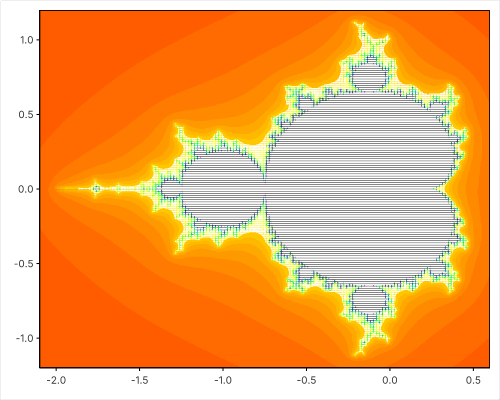
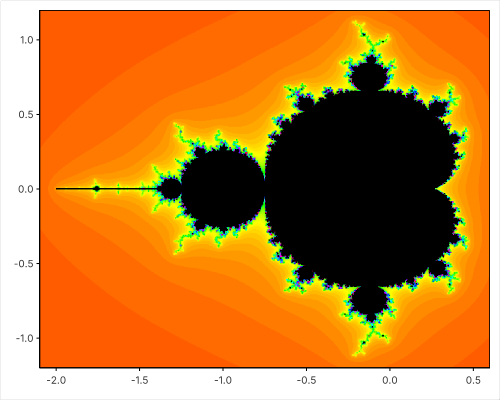
wgpu u16 -> u32

Changed region(s): [[0.12, 0.06, 0.96, 0.9]]

diff --git a/src/render/backend/wgpu.rs b/src/render/backend/wgpu.rs
@@ -241,7 +241,10 @@ pub struct WgpuBackend {
     polygon_vertex_buffer: wgpu::Buffer,
     polygon_index_buffer: wgpu::Buffer,
     pending_polygon_vertices: Vec<PathVertex>,
-    pending_polygon_indices: Vec<u16>,
+    /// 32-bit indices: dense polygon layers (for example a per-pixel fractal)
+    /// can exceed the 65,535 vertices a `u16` index can address. Wrapping there
+    /// silently corrupts the geometry and leaves seams or wrong-coloured runs.
+    pending_polygon_indices: Vec<u32>,
     uploaded_polygon_index_count: u32,
 
     // Gradient rectangle resources
@@ -618,7 +621,7 @@ impl WgpuBackend {
         let line_buffer = Self::create_dummy_buffer::<GpuLine>(&device);
         let gradient_rect_buffer = Self::create_dummy_buffer::<GpuGradientRect>(&device);
         let dummy_polygon_vertices = Self::create_dummy_buffer::<PathVertex>(&device);
-        let dummy_polygon_indices = Self::create_dummy_buffer::<u16>(&device);
+        let dummy_polygon_indices = Self::create_dummy_buffer::<u32>(&device);
 
         // STENCIL MASK BUFFER FOR HETEROGENEOUS VECTOR FILLS
         let physical_width = (screen_width as f32 * scale_factor).round() as u32;
@@ -1232,7 +1235,7 @@ impl WgpuBackend {
         let mut max_y = f32::MIN;
 
         for points in &rings {
-            let base_vertex = self.pending_polygon_vertices.len() as u16;
+            let base_vertex = self.pending_polygon_vertices.len() as u32;
 
             for &(x, y) in *points {
                 min_x = min_x.min(x);
@@ -1249,8 +1252,8 @@ impl WgpuBackend {
             for i in 1..points.len() - 1 {
                 self.pending_polygon_indices.extend([
                     base_vertex,
-                    base_vertex + i as u16,
-                    base_vertex + (i + 1) as u16,
+                    base_vertex + i as u32,
+                    base_vertex + (i + 1) as u32,
                 ]);
                 stencil_index_count += 3;
             }
@@ -1264,7 +1267,7 @@ impl WgpuBackend {
         // ====================================================================
         let fill = config.fill.rgba();
         let fill_color = [fill[0], fill[1], fill[2], fill[3] * config.opacity];
-        let cover_base = self.pending_polygon_vertices.len() as u16;
+        let cover_base = self.pending_polygon_vertices.len() as u32;
 
         let bb_points = [
             (min_x, min_y),
@@ -1305,7 +1308,7 @@ impl WgpuBackend {
 
         let fill = config.fill.rgba();
         let color = [fill[0], fill[1], fill[2], fill[3] * config.opacity];
-        let base_vertex = self.pending_polygon_vertices.len() as u16;
+        let base_vertex = self.pending_polygon_vertices.len() as u32;
         let point_count = points.len();
 
         for &(x, y) in points {
@@ -1320,8 +1323,8 @@ impl WgpuBackend {
         for i in 1..point_count - 1 {
             indices.extend([
                 base_vertex,
-                base_vertex + i as u16,
-                base_vertex + (i + 1) as u16,
+                base_vertex + i as u32,
+                base_vertex + (i + 1) as u32,
             ]);
         }
         let index_count = indices.len() as u32;
@@ -1567,7 +1570,7 @@ impl WgpuBackend {
                         pass.set_vertex_buffer(0, self.polygon_vertex_buffer.slice(..));
                         pass.set_index_buffer(
                             self.polygon_index_buffer.slice(..),
-                            wgpu::IndexFormat::Uint16,
+                            wgpu::IndexFormat::Uint32,
                         );
                         pass.draw_indexed(*index_start..(*index_start + *index_count), 0, 0..1);
                     }
@@ -1592,7 +1595,7 @@ impl WgpuBackend {
                         pass.set_vertex_buffer(0, self.polygon_vertex_buffer.slice(..));
                         pass.set_index_buffer(
                             self.polygon_index_buffer.slice(..),
-                            wgpu::IndexFormat::Uint16,
+                            wgpu::IndexFormat::Uint32,
                         );
                         pass.set_stencil_reference(0); // Sets baseline comparison reference
                         pass.draw_indexed(*index_start..(*index_start + *index_count), 0, 0..1);
@@ -1606,7 +1609,7 @@ impl WgpuBackend {
                         pass.set_vertex_buffer(0, self.polygon_vertex_buffer.slice(..));
                         pass.set_index_buffer(
                             self.polygon_index_buffer.slice(..),
-                            wgpu::IndexFormat::Uint16,
+                            wgpu::IndexFormat::Uint32,
                         );
                         pass.set_stencil_reference(0);
                         pass.draw_indexed(*index_start..(*index_start + *index_count), 0, 0..1);

diff --git a/CHANGELOG.md b/CHANGELOG.md
@@ -26,6 +26,14 @@ predate this file.
   returns one tick per category, but when the measured labels do not fit, every
   `n`th label is kept instead of drawing all of them on top of each other.
 
+### Fixed
+
+- **WGPU polygon batches use 32-bit indices.** Geometry with more than 65,535
+  vertices silently wrapped its 16-bit indices, so dense polygon layers
+  referenced the wrong vertices. The Mandelbrot example showed the effect as
+  white gaps and coloured fragments across what should be a solid black set;
+  it now fills continuously, matching the other backends and plotters.
+
 ## [0.9.0] - 2026-10-24
 
 ### Breaking
